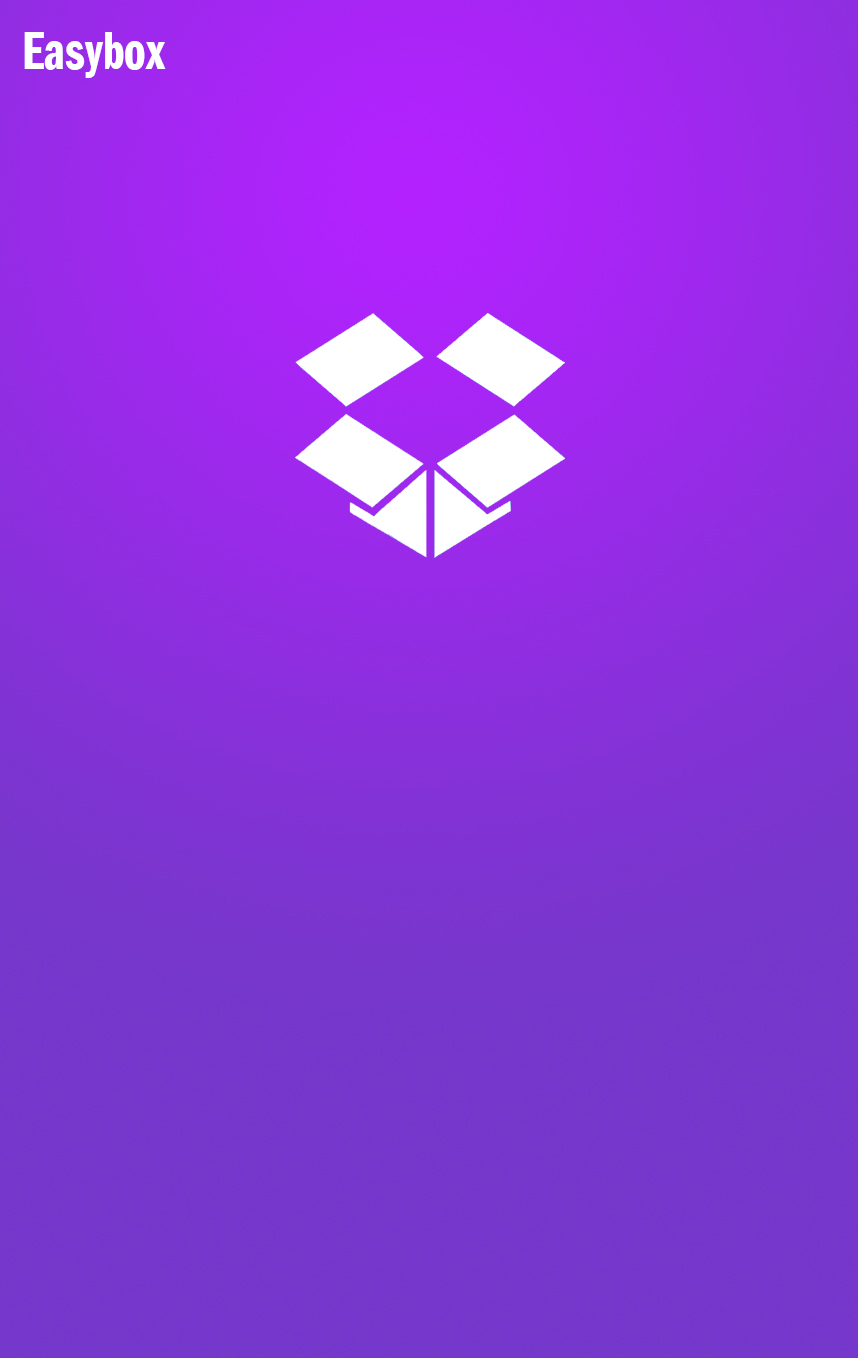
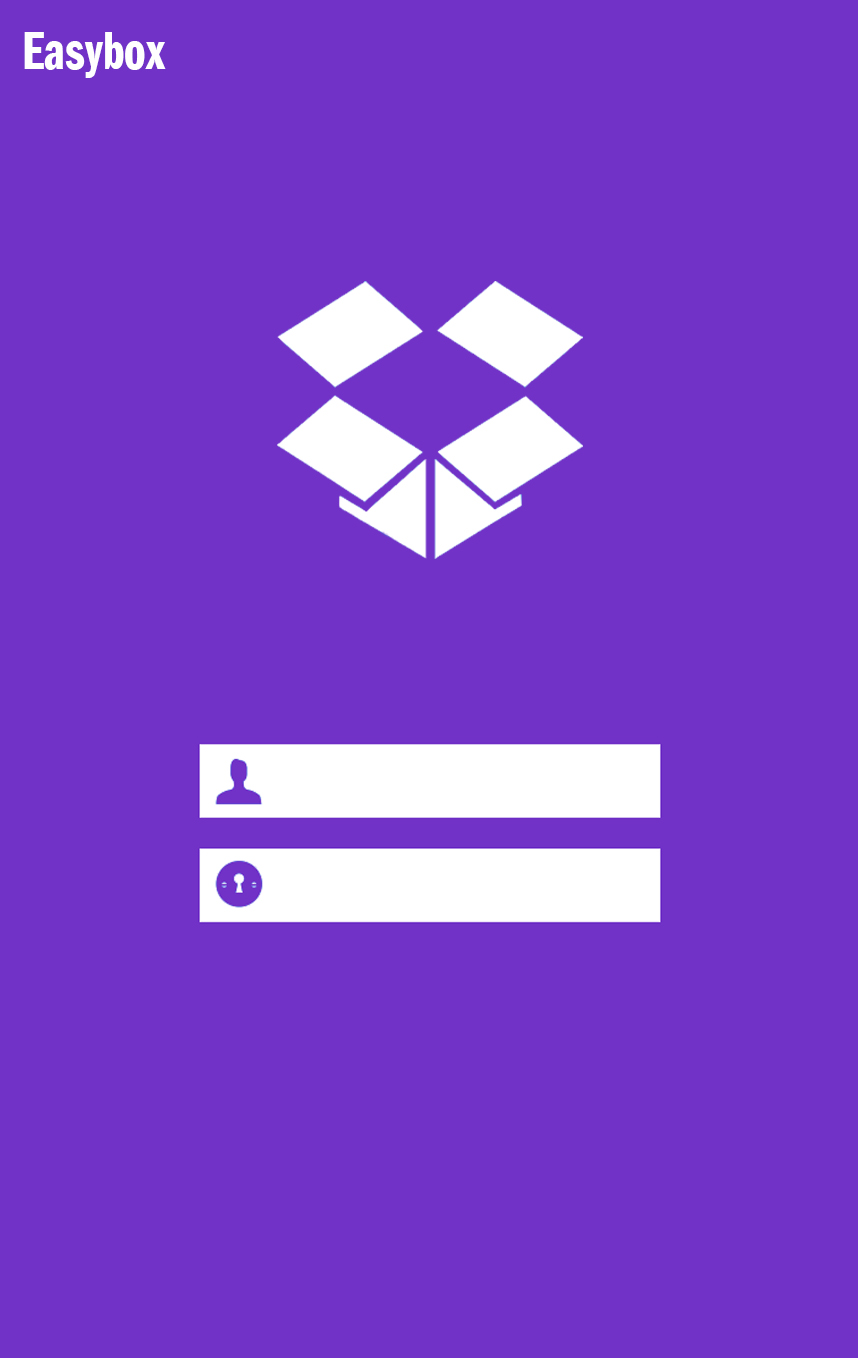
重新设计了UI界面（但是注册 登录按钮尚未修改完毕）

diff --git a/UI/LoginForm.Designer.cs b/UI/LoginForm.Designer.cs
@@ -35,17 +35,17 @@
             this.ToolStripChangeMenu = new System.Windows.Forms.ToolStripMenuItem();
             this.ToolStripLogout = new System.Windows.Forms.ToolStripMenuItem();
             this.ToolStripExit = new System.Windows.Forms.ToolStripMenuItem();
-            this.buttonLogin = new System.Windows.Forms.Button();
             this.pictureBox1 = new System.Windows.Forms.PictureBox();
             this.buttonExit = new System.Windows.Forms.Button();
             this.FolderBrowserDialog1 = new System.Windows.Forms.FolderBrowserDialog();
             this.labelRegist = new System.Windows.Forms.Label();
-            this.buttomRegister = new System.Windows.Forms.Button();
             this.labelLogin = new System.Windows.Forms.Label();
-            this.textBoxPass = new EasyboxClient.UI.GlassText();
-            this.textBoxUser = new EasyboxClient.UI.GlassText();
+            this.textBoxPass = new System.Windows.Forms.TextBox();
+            this.textBoxUser = new System.Windows.Forms.TextBox();
+            this.pictureBox2 = new System.Windows.Forms.PictureBox();
             this.contextMenuStrip1.SuspendLayout();
             ((System.ComponentModel.ISupportInitialize)(this.pictureBox1)).BeginInit();
+            ((System.ComponentModel.ISupportInitialize)(this.pictureBox2)).BeginInit();
             this.SuspendLayout();
             // 
             // notifyIcon1
@@ -63,47 +63,28 @@
             this.ToolStripLogout,
             this.ToolStripExit});
             this.contextMenuStrip1.Name = "contextMenuStrip1";
-            this.contextMenuStrip1.Size = new System.Drawing.Size(125, 70);
+            this.contextMenuStrip1.Size = new System.Drawing.Size(139, 76);
             // 
             // ToolStripChangeMenu
             // 
             this.ToolStripChangeMenu.Name = "ToolStripChangeMenu";
-            this.ToolStripChangeMenu.Size = new System.Drawing.Size(124, 22);
+            this.ToolStripChangeMenu.Size = new System.Drawing.Size(138, 24);
             this.ToolStripChangeMenu.Text = "更改目录";
             this.ToolStripChangeMenu.Click += new System.EventHandler(this.ChangeMenu_Click);
             // 
             // ToolStripLogout
             // 
             this.ToolStripLogout.Name = "ToolStripLogout";
-            this.ToolStripLogout.Size = new System.Drawing.Size(124, 22);
+            this.ToolStripLogout.Size = new System.Drawing.Size(138, 24);
             this.ToolStripLogout.Text = "注销";
             this.ToolStripLogout.Click += new System.EventHandler(this.Logout_Click);
             // 
             // ToolStripExit
             // 
             this.ToolStripExit.Name = "ToolStripExit";
-            this.ToolStripExit.Size = new System.Drawing.Size(124, 22);
+            this.ToolStripExit.Size = new System.Drawing.Size(138, 24);
             this.ToolStripExit.Text = "退出";
             this.ToolStripExit.Click += new System.EventHandler(this.Exit_Click);
-            // 
-            // buttonLogin
-            // 
-            this.buttonLogin.BackColor = System.Drawing.SystemColors.ActiveBorder;
-            this.buttonLogin.Cursor = System.Windows.Forms.Cursors.Hand;
-            this.buttonLogin.FlatAppearance.BorderColor = System.Drawing.Color.White;
-            this.buttonLogin.FlatAppearance.BorderSize = 0;
-            this.buttonLogin.FlatAppearance.MouseDownBackColor = System.Drawing.Color.Transparent;
-            this.buttonLogin.FlatAppearance.MouseOverBackColor = System.Drawing.Color.Transparent;
-            this.buttonLogin.ForeColor = System.Drawing.SystemColors.ControlText;
-            this.buttonLogin.ImageAlign = System.Drawing.ContentAlignment.TopCenter;
-            this.buttonLogin.Location = new System.Drawing.Point(97, 288);
-            this.buttonLogin.Margin = new System.Windows.Forms.Padding(0);
-            this.buttonLogin.Name = "buttonLogin";
-            this.buttonLogin.Size = new System.Drawing.Size(32, 21);
-            this.buttonLogin.TabIndex = 6;
-            this.buttonLogin.Text = "Login";
-            this.buttonLogin.UseVisualStyleBackColor = true;
-            this.buttonLogin.Click += new System.EventHandler(this.buttonLogin_Click);
             // 
             // pictureBox1
             // 
@@ -113,7 +94,7 @@
             this.pictureBox1.Location = new System.Drawing.Point(0, 0);
             this.pictureBox1.Margin = new System.Windows.Forms.Padding(0);
             this.pictureBox1.Name = "pictureBox1";
-            this.pictureBox1.Size = new System.Drawing.Size(215, 365);
+            this.pictureBox1.Size = new System.Drawing.Size(350, 554);
             this.pictureBox1.SizeMode = System.Windows.Forms.PictureBoxSizeMode.StretchImage;
             this.pictureBox1.TabIndex = 3;
             this.pictureBox1.TabStop = false;
@@ -130,10 +111,10 @@
             this.buttonExit.FlatAppearance.MouseOverBackColor = System.Drawing.Color.Transparent;
             this.buttonExit.FlatStyle = System.Windows.Forms.FlatStyle.Flat;
             this.buttonExit.ForeColor = System.Drawing.Color.Transparent;
-            this.buttonExit.Location = new System.Drawing.Point(191, 0);
+            this.buttonExit.Location = new System.Drawing.Point(310, 0);
             this.buttonExit.Margin = new System.Windows.Forms.Padding(0);
             this.buttonExit.Name = "buttonExit";
-            this.buttonExit.Size = new System.Drawing.Size(23, 23);
+            this.buttonExit.Size = new System.Drawing.Size(31, 29);
             this.buttonExit.TabIndex = 7;
             this.buttonExit.UseVisualStyleBackColor = false;
             this.buttonExit.Click += new System.EventHandler(this.buttonExit_Click);
@@ -144,36 +125,23 @@
             this.labelRegist.BackColor = System.Drawing.Color.Transparent;
             this.labelRegist.FlatStyle = System.Windows.Forms.FlatStyle.Flat;
             this.labelRegist.ForeColor = System.Drawing.Color.Honeydew;
-            this.labelRegist.Location = new System.Drawing.Point(24, 312);
+            this.labelRegist.Location = new System.Drawing.Point(32, 485);
+            this.labelRegist.Margin = new System.Windows.Forms.Padding(4, 0, 4, 0);
             this.labelRegist.Name = "labelRegist";
-            this.labelRegist.Size = new System.Drawing.Size(29, 12);
+            this.labelRegist.Size = new System.Drawing.Size(37, 15);
             this.labelRegist.TabIndex = 8;
             this.labelRegist.Text = "注册";
             this.labelRegist.Click += new System.EventHandler(this.lableRegist_Click);
-            // 
-            // buttomRegister
-            // 
-            this.buttomRegister.FlatAppearance.BorderColor = System.Drawing.Color.FromArgb(((int)(((byte)(128)))), ((int)(((byte)(128)))), ((int)(((byte)(255)))));
-            this.buttomRegister.FlatAppearance.MouseDownBackColor = System.Drawing.SystemColors.InactiveCaption;
-            this.buttomRegister.FlatAppearance.MouseOverBackColor = System.Drawing.Color.BurlyWood;
-            this.buttomRegister.FlatStyle = System.Windows.Forms.FlatStyle.Flat;
-            this.buttomRegister.Location = new System.Drawing.Point(97, 288);
-            this.buttomRegister.Name = "buttomRegister";
-            this.buttomRegister.Size = new System.Drawing.Size(32, 21);
-            this.buttomRegister.TabIndex = 9;
-            this.buttomRegister.Text = "Reg";
-            this.buttomRegister.UseVisualStyleBackColor = true;
-            this.buttomRegister.Visible = false;
-            this.buttomRegister.Click += new System.EventHandler(this.buttomRegister_Click);
             // 
             // labelLogin
             // 
             this.labelLogin.AutoSize = true;
             this.labelLogin.BackColor = System.Drawing.Color.Transparent;
             this.labelLogin.ForeColor = System.Drawing.Color.Honeydew;
-            this.labelLogin.Location = new System.Drawing.Point(26, 312);
+            this.labelLogin.Location = new System.Drawing.Point(32, 485);
+            this.labelLogin.Margin = new System.Windows.Forms.Padding(4, 0, 4, 0);
             this.labelLogin.Name = "labelLogin";
-            this.labelLogin.Size = new System.Drawing.Size(29, 12);
+            this.labelLogin.Size = new System.Drawing.Size(37, 15);
             this.labelLogin.TabIndex = 10;
             this.labelLogin.Text = "登陆";
             this.labelLogin.Visible = false;
@@ -182,49 +150,64 @@
             // textBoxPass
             // 
             this.textBoxPass.BackColor = System.Drawing.SystemColors.Window;
-            this.textBoxPass.BorderStyle = System.Windows.Forms.BorderStyle.FixedSingle;
-            this.textBoxPass.Font = new System.Drawing.Font("YouYuan", 10F, System.Drawing.FontStyle.Regular, System.Drawing.GraphicsUnit.Point, ((byte)(134)));
-            this.textBoxPass.Location = new System.Drawing.Point(63, 230);
+            this.textBoxPass.BorderStyle = System.Windows.Forms.BorderStyle.None;
+            this.textBoxPass.Font = new System.Drawing.Font("幼圆", 10F, System.Drawing.FontStyle.Regular, System.Drawing.GraphicsUnit.Point, ((byte)(134)));
+            this.textBoxPass.Location = new System.Drawing.Point(115, 352);
+            this.textBoxPass.Margin = new System.Windows.Forms.Padding(4);
             this.textBoxPass.Name = "textBoxPass";
             this.textBoxPass.PasswordChar = '*';
-            this.textBoxPass.Size = new System.Drawing.Size(100, 22);
+            this.textBoxPass.Size = new System.Drawing.Size(150, 19);
             this.textBoxPass.TabIndex = 5;
             this.textBoxPass.Tag = "shisih";
             this.textBoxPass.KeyUp += new System.Windows.Forms.KeyEventHandler(this.textBoxPass_KeyUp);
             // 
             // textBoxUser
             // 
-            this.textBoxUser.Font = new System.Drawing.Font("YouYuan", 10F, System.Drawing.FontStyle.Regular, System.Drawing.GraphicsUnit.Point, ((byte)(134)));
-            this.textBoxUser.Location = new System.Drawing.Point(63, 181);
+            this.textBoxUser.BorderStyle = System.Windows.Forms.BorderStyle.None;
+            this.textBoxUser.Font = new System.Drawing.Font("幼圆", 10F, System.Drawing.FontStyle.Regular, System.Drawing.GraphicsUnit.Point, ((byte)(134)));
+            this.textBoxUser.Location = new System.Drawing.Point(115, 309);
+            this.textBoxUser.Margin = new System.Windows.Forms.Padding(4);
             this.textBoxUser.Name = "textBoxUser";
-            this.textBoxUser.Size = new System.Drawing.Size(100, 22);
+            this.textBoxUser.Size = new System.Drawing.Size(150, 19);
             this.textBoxUser.TabIndex = 4;
+            // 
+            // pictureBox2
+            // 
+            this.pictureBox2.BackColor = System.Drawing.Color.Transparent;
+            this.pictureBox2.Image = global::EasyboxClient.Properties.Resources.login;
+            this.pictureBox2.Location = new System.Drawing.Point(72, 412);
+            this.pictureBox2.Name = "pictureBox2";
+            this.pictureBox2.Size = new System.Drawing.Size(209, 51);
+            this.pictureBox2.SizeMode = System.Windows.Forms.PictureBoxSizeMode.StretchImage;
+            this.pictureBox2.TabIndex = 11;
+            this.pictureBox2.TabStop = false;
             // 
             // LoginForm
             // 
-            this.AutoScaleDimensions = new System.Drawing.SizeF(6F, 12F);
+            this.AutoScaleDimensions = new System.Drawing.SizeF(8F, 15F);
             this.AutoScaleMode = System.Windows.Forms.AutoScaleMode.Font;
             this.BackColor = System.Drawing.SystemColors.ActiveBorder;
             this.BackgroundImage = global::EasyboxClient.Properties.Resources.UI;
             this.BackgroundImageLayout = System.Windows.Forms.ImageLayout.Stretch;
-            this.ClientSize = new System.Drawing.Size(215, 365);
-            this.Controls.Add(this.labelLogin);
-            this.Controls.Add(this.buttomRegister);
-            this.Controls.Add(this.labelRegist);
-            this.Controls.Add(this.buttonExit);
-            this.Controls.Add(this.buttonLogin);
+            this.ClientSize = new System.Drawing.Size(350, 554);
+            this.Controls.Add(this.pictureBox2);
             this.Controls.Add(this.textBoxPass);
             this.Controls.Add(this.textBoxUser);
+            this.Controls.Add(this.labelLogin);
+            this.Controls.Add(this.labelRegist);
+            this.Controls.Add(this.buttonExit);
             this.Controls.Add(this.pictureBox1);
             this.DoubleBuffered = true;
             this.FormBorderStyle = System.Windows.Forms.FormBorderStyle.None;
             this.Icon = ((System.Drawing.Icon)(resources.GetObject("$this.Icon")));
+            this.Margin = new System.Windows.Forms.Padding(4);
             this.Name = "LoginForm";
             this.StartPosition = System.Windows.Forms.FormStartPosition.CenterScreen;
             this.Text = "LoginForm";
             this.Load += new System.EventHandler(this.LoginForm_Load);
             this.contextMenuStrip1.ResumeLayout(false);
             ((System.ComponentModel.ISupportInitialize)(this.pictureBox1)).EndInit();
+            ((System.ComponentModel.ISupportInitialize)(this.pictureBox2)).EndInit();
             this.ResumeLayout(false);
             this.PerformLayout();
 
@@ -236,16 +219,15 @@
         private System.Windows.Forms.ContextMenuStrip contextMenuStrip1;
         private System.Windows.Forms.ToolStripMenuItem ToolStripExit;
         private System.Windows.Forms.PictureBox pictureBox1;
-        private GlassText textBoxUser;
-        private GlassText textBoxPass;
-        private System.Windows.Forms.Button buttonLogin;
+        private System.Windows.Forms.TextBox textBoxUser;
+        private System.Windows.Forms.TextBox textBoxPass;
         private System.Windows.Forms.Button buttonExit;
         private System.Windows.Forms.ToolStripMenuItem ToolStripLogout;
         private System.Windows.Forms.ToolStripMenuItem ToolStripChangeMenu;
         private System.Windows.Forms.FolderBrowserDialog FolderBrowserDialog1;
         private System.Windows.Forms.Label labelRegist;
-        private System.Windows.Forms.Button buttomRegister;
         private System.Windows.Forms.Label labelLogin;
+        private System.Windows.Forms.PictureBox pictureBox2;
     }
 }
 

diff --git a/Properties/Resources.Designer.cs b/Properties/Resources.Designer.cs
@@ -1,10 +1,10 @@
 //------------------------------------------------------------------------------
 // <auto-generated>
-//     This code was generated by a tool.
-//     Runtime Version:4.0.30319.34011
+//     此代码由工具生成。
+//     运行时版本:4.0.30319.18449
 //
-//     Changes to this file may cause incorrect behavior and will be lost if
-//     the code is regenerated.
+//     对此文件的更改可能会导致不正确的行为，并且如果
+//     重新生成代码，这些更改将会丢失。
 // </auto-generated>
 //------------------------------------------------------------------------------
 
@@ -13,12 +13,12 @@ namespace EasyboxClient.Properties {
     
     
     /// <summary>
-    ///   A strongly-typed resource class, for looking up localized strings, etc.
+    ///   一个强类型的资源类，用于查找本地化的字符串等。
     /// </summary>
-    // This class was auto-generated by the StronglyTypedResourceBuilder
-    // class via a tool like ResGen or Visual Studio.
-    // To add or remove a member, edit your .ResX file then rerun ResGen
-    // with the /str option, or rebuild your VS project.
+    // 此类是由 StronglyTypedResourceBuilder
+    // 类通过类似于 ResGen 或 Visual Studio 的工具自动生成的。
+    // 若要添加或移除成员，请编辑 .ResX 文件，然后重新运行 ResGen
+    // (以 /str 作为命令选项)，或重新生成 VS 项目。
     [global::System.CodeDom.Compiler.GeneratedCodeAttribute("System.Resources.Tools.StronglyTypedResourceBuilder", "4.0.0.0")]
     [global::System.Diagnostics.DebuggerNonUserCodeAttribute()]
     [global::System.Runtime.CompilerServices.CompilerGeneratedAttribute()]
@@ -33,7 +33,7 @@ namespace EasyboxClient.Properties {
         }
         
         /// <summary>
-        ///   Returns the cached ResourceManager instance used by this class.
+        ///   返回此类使用的缓存的 ResourceManager 实例。
         /// </summary>
         [global::System.ComponentModel.EditorBrowsableAttribute(global::System.ComponentModel.EditorBrowsableState.Advanced)]
         internal static global::System.Resources.ResourceManager ResourceManager {
@@ -47,8 +47,8 @@ namespace EasyboxClient.Properties {
         }
         
         /// <summary>
-        ///   Overrides the current thread's CurrentUICulture property for all
-        ///   resource lookups using this strongly typed resource class.
+        ///   使用此强类型资源类，为所有资源查找
+        ///   重写当前线程的 CurrentUICulture 属性。
         /// </summary>
         [global::System.ComponentModel.EditorBrowsableAttribute(global::System.ComponentModel.EditorBrowsableState.Advanced)]
         internal static global::System.Globalization.CultureInfo Culture {
@@ -61,11 +61,41 @@ namespace EasyboxClient.Properties {
         }
         
         /// <summary>
-        ///   Looks up a localized resource of type System.Drawing.Bitmap.
+        ///   查找 System.Drawing.Bitmap 类型的本地化资源。
+        /// </summary>
+        internal static System.Drawing.Bitmap login {
+            get {
+                object obj = ResourceManager.GetObject("login", resourceCulture);
+                return ((System.Drawing.Bitmap)(obj));
+            }
+        }
+        
+        /// <summary>
+        ///   查找 System.Drawing.Bitmap 类型的本地化资源。
         /// </summary>
         internal static System.Drawing.Bitmap UI {
             get {
                 object obj = ResourceManager.GetObject("UI", resourceCulture);
+                return ((System.Drawing.Bitmap)(obj));
+            }
+        }
+        
+        /// <summary>
+        ///   查找 System.Drawing.Bitmap 类型的本地化资源。
+        /// </summary>
+        internal static System.Drawing.Bitmap 用户名0 {
+            get {
+                object obj = ResourceManager.GetObject("用户名0", resourceCulture);
+                return ((System.Drawing.Bitmap)(obj));
+            }
+        }
+        
+        /// <summary>
+        ///   查找 System.Drawing.Bitmap 类型的本地化资源。
+        /// </summary>
+        internal static System.Drawing.Bitmap 用户名1 {
+            get {
+                object obj = ResourceManager.GetObject("用户名1", resourceCulture);
                 return ((System.Drawing.Bitmap)(obj));
             }
         }

diff --git a/UI/LoginForm.cs b/UI/LoginForm.cs
@@ -64,16 +64,16 @@ namespace EasyboxClient.UI
         {
             labelRegist.Visible = false;
             labelLogin.Visible = true;
-            buttomRegister.Visible = true;
-            buttonLogin.Visible = false;
+            //buttomRegister.Visible = true;
+            //buttonLogin.Visible = false;
         }
         //点击登陆，跳转登陆页面
         private void labelLogin_Click(object sender, EventArgs e)
         {
             labelRegist.Visible = true;
             labelLogin.Visible = false;
-            buttomRegister.Visible = false;
-            buttonLogin.Visible = true;
+            //buttomRegister.Visible = false;
+            //buttonLogin.Visible = true;
         }
         //单击登陆按钮事件
         private void buttonLogin_Click(object sender, EventArgs e)
@@ -155,7 +155,7 @@ namespace EasyboxClient.UI
         //回车
         private void textBoxPass_KeyUp(object sender, KeyEventArgs e)
         {
-            if (e.KeyValue == 13)//判断是否按下Enter键
+           /* if (e.KeyValue == 13)//判断是否按下Enter键
                 if (buttonLogin.Visible == true)
                 {
                     buttonLogin_Click(sender, e);// btnLogin.Focus();//将鼠标焦点移动到“登录”按钮
@@ -163,7 +163,7 @@ namespace EasyboxClient.UI
                 else 
                 {
                     buttomRegister_Click(sender, e);
-                }
+                }*/
         }
         //双击托盘图标事件
         private void notifyIcon1_MouseDoubleClick(object sender, EventArgs e)
@@ -209,5 +209,14 @@ namespace EasyboxClient.UI
             }
         }
 
+        private void pictureBox3_Click(object sender, EventArgs e)
+        {
+
+        }
+
+        private void namePicture0_Click(object sender, EventArgs e)
+        {
+
+        }
     }
 }
